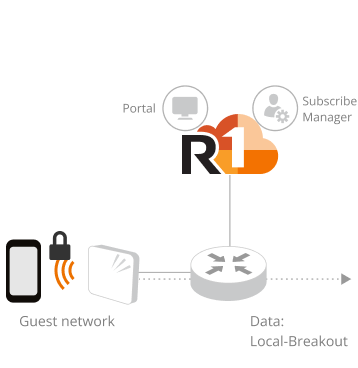
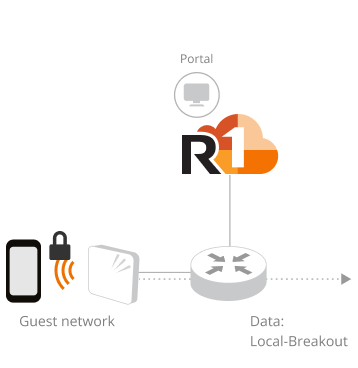
ACX-86291: Support Accounting service on CaptivePortal Click through network

Changed region(s): [[0.338, 0.1495, 0.6145, 0.3587], [0.7067, 0.2092, 1.0, 0.3587]]

diff --git a/libs/rc/shared/components/src/NetworkForm/NetworkDiagram/NetworkDiagram.tsx b/libs/rc/shared/components/src/NetworkForm/NetworkDiagram/NetworkDiagram.tsx
@@ -18,8 +18,14 @@ import AaaCertAaaDiagram               from '../assets/images/network-wizard-dia
 import AaaCertDiagram                  from '../assets/images/network-wizard-diagrams/aaa-cert.png'
 import AaaProxyDiagram                 from '../assets/images/network-wizard-diagrams/aaa-proxy.png'
 import AaaDiagram                      from '../assets/images/network-wizard-diagrams/aaa.png'
-import ClickThroughWithOweDiagram      from '../assets/images/network-wizard-diagrams/click-through-owe.png'
-import ClickThroughWithPskDiagram      from '../assets/images/network-wizard-diagrams/click-through-psk.png'
+import ClickThroughAaaProxyDiagram     from '../assets/images/network-wizard-diagrams/click-through-aaa-proxy.png'
+import ClickThroughAaaDiagram          from '../assets/images/network-wizard-diagrams/click-through-aaa.png'
+import ClickThroughOweAaaProxyDiagram  from '../assets/images/network-wizard-diagrams/click-through-owe-aaa-proxy.png'
+import ClickThroughOweAaaDiagram       from '../assets/images/network-wizard-diagrams/click-through-owe-aaa.png'
+import ClickThroughOweDiagram          from '../assets/images/network-wizard-diagrams/click-through-owe.png'
+import ClickThroughPskAaaProxyDiagram  from '../assets/images/network-wizard-diagrams/click-through-psk-aaa-proxy.png'
+import ClickThroughPskAaaDiagram       from '../assets/images/network-wizard-diagrams/click-through-psk-aaa.png'
+import ClickThroughPskDiagram          from '../assets/images/network-wizard-diagrams/click-through-psk.png'
 import ClickThroughDiagram             from '../assets/images/network-wizard-diagrams/click-through.png'
 import CloudpathWithOweDiagram         from '../assets/images/network-wizard-diagrams/cloudpath-owe.png'
 import CloudpathProxyWithOweDiagram    from '../assets/images/network-wizard-diagrams/cloudpath-proxy-owe.png'
@@ -294,8 +300,7 @@ function getCaptivePortalDiagram (props: CaptivePortalDiagramProps) {
     (wlanSecurity === WlanSecurityEnum.OWE) || (wlanSecurity === WlanSecurityEnum.OWETransition)
 
   const CaptivePortalDiagramMap: Partial<Record<GuestNetworkTypeEnum, string>> = {
-    [GuestNetworkTypeEnum.ClickThrough]: wisprWithPsk ? ClickThroughWithPskDiagram :
-      (wisprWithOwe ? ClickThroughWithOweDiagram : ClickThroughDiagram),
+    [GuestNetworkTypeEnum.ClickThrough]: getClickThroughDiagram(props),
     [GuestNetworkTypeEnum.SelfSignIn]: getSelfSignInDiagram(props),
     [GuestNetworkTypeEnum.HostApproval]: getHostApprovalDiagram(props),
     [GuestNetworkTypeEnum.GuestPass]: getGuestPassDiagram(props),
@@ -319,6 +324,24 @@ interface CaptivePortalDiagramSet {
 }
 
 const captivePortalDiagramMapping: Record<string, CaptivePortalDiagramSet> = {
+
+  // --- ClickThrough ---
+  ClickThroughOWE: {
+    Diagram: ClickThroughOweDiagram,
+    AaaProxyDiagram: ClickThroughOweAaaProxyDiagram,
+    AaaDiagram: ClickThroughOweAaaDiagram
+  },
+  ClickThroughPSK: {
+    Diagram: ClickThroughPskDiagram,
+    AaaProxyDiagram: ClickThroughPskAaaProxyDiagram,
+    AaaDiagram: ClickThroughPskAaaDiagram
+  },
+  ClickThrough: {
+    Diagram: ClickThroughDiagram,
+    AaaProxyDiagram: ClickThroughAaaProxyDiagram,
+    AaaDiagram: ClickThroughAaaDiagram
+  },
+
   // --- SelfSignIn ---
   SelfSignInOWE: {
     Diagram: SelfSignInOweDiagram,
@@ -400,6 +423,9 @@ function getCommonCaptivePortalDiagram (
 const getSelfSignInDiagram = createCaptivePortalDiagramGenerator('SelfSignIn')
 const getHostApprovalDiagram = createCaptivePortalDiagramGenerator('HostApproval')
 const getGuestPassDiagram = createCaptivePortalDiagramGenerator('GuestPass')
+const getClickThroughDiagram = createCaptivePortalDiagramGenerator('ClickThrough')
+
+
 
 export function NetworkDiagram (props: NetworkDiagramProps) {
   const { $t } = useIntl()
@@ -437,14 +463,13 @@ export function NetworkDiagram (props: NetworkDiagramProps) {
       return !(macAuthProps.enableMACAuth && !macAuthProps.isMacRegistrationList)
     }
 
-    // Hide AAA button under Captive Portal - Workflow
+    // Hide AAA button under Captive Portal
     if(props.type === NetworkTypeEnum.CAPTIVEPORTAL) {
       const cpProps = props as CaptivePortalDiagramProps
 
-      return cpProps.networkPortalType === GuestNetworkTypeEnum.Workflow ||
-        cpProps.networkPortalType === GuestNetworkTypeEnum.HostApproval ||
-        cpProps.networkPortalType === GuestNetworkTypeEnum.GuestPass ||
-        cpProps.networkPortalType === GuestNetworkTypeEnum.SelfSignIn
+      return cpProps.networkPortalType !== GuestNetworkTypeEnum.Cloudpath &&
+        cpProps.networkPortalType !== GuestNetworkTypeEnum.WISPr
+
     }
 
     if(networkType === NetworkTypeEnum.DPSK) {

diff --git a/libs/rc/shared/components/src/NetworkForm/NetworkDiagram/NetworkDiagram.spec.tsx b/libs/rc/shared/components/src/NetworkForm/NetworkDiagram/NetworkDiagram.spec.tsx
@@ -639,9 +639,11 @@ describe('NetworkDiagram', () => {
         <NetworkFormContext.Provider value={{
           editMode: false,
           cloneMode: false,
+          isRuckusAiMode: false,
           data: { type },
           setData: jest.fn()
-        }}><NetworkDiagram /></NetworkFormContext.Provider>
+        }}><NetworkDiagram />
+        </NetworkFormContext.Provider>
       </Provider>, {
         route: {
           params
@@ -653,17 +655,21 @@ describe('NetworkDiagram', () => {
     })
     it('should render Captive portal (Click Through) diagram successfully', async () => {
       const portalType = GuestNetworkTypeEnum.ClickThrough
-      const { asFragment } = render(
+      render(
         <Provider>
           <NetworkFormContext.Provider value={{
             editMode: false,
             cloneMode: false,
+            isRuckusAiMode: false,
             data: {
               type
             },
             setData: jest.fn()
           }}>
-            <NetworkDiagram networkPortalType={portalType} />
+            <NetworkDiagram
+              type={NetworkTypeEnum.CAPTIVEPORTAL}
+              networkPortalType={portalType}
+            />
           </NetworkFormContext.Provider>
         </Provider>, {
           route: {
@@ -672,22 +678,26 @@ describe('NetworkDiagram', () => {
         })
       const diagram = screen.getByRole('img') as HTMLImageElement
       expect(diagram.src).toContain('ClickThrough')
-      expect(asFragment()).toMatchSnapshot()
     })
     it('should render Captive portal (Click Through with PSK) diagram successfully', async () => {
       const portalType = GuestNetworkTypeEnum.ClickThrough
-      const { asFragment } = render(
+      render(
         <Provider>
           <NetworkFormContext.Provider value={{
             editMode: false,
             cloneMode: false,
+            isRuckusAiMode: false,
             data: {
               type
             },
             setData: jest.fn()
           }}>
-            <NetworkDiagram networkPortalType={portalType}
-              wlanSecurity={WlanSecurityEnum.WPA2Personal} />
+            <NetworkDiagram
+              type={NetworkTypeEnum.CAPTIVEPORTAL}
+              networkPortalType={portalType}
+              enableAccountingService={true}
+              networkSecurity={'PSK'}
+            />
           </NetworkFormContext.Provider>
         </Provider>, {
           route: {
@@ -695,22 +705,28 @@ describe('NetworkDiagram', () => {
           }
         })
       const diagram = screen.getByRole('img') as HTMLImageElement
-      expect(diagram.src).toContain('ClickThroughPsk')
-      expect(asFragment()).toMatchSnapshot()
+      expect(diagram.src).toContain('ClickThroughPskAaa')
     })
     it('should render Captive portal (Click Through with OWE) diagram successfully', async () => {
       const portalType = GuestNetworkTypeEnum.ClickThrough
-      const { asFragment } = render(
+      render(
         <Provider>
           <NetworkFormContext.Provider value={{
             editMode: false,
             cloneMode: false,
+            isRuckusAiMode: false,
             data: {
               type
             },
             setData: jest.fn()
           }}>
-            <NetworkDiagram networkPortalType={portalType} wlanSecurity={WlanSecurityEnum.OWE} />
+            <NetworkDiagram
+              type={NetworkTypeEnum.CAPTIVEPORTAL}
+              networkPortalType={portalType}
+              enableAccountingService={true}
+              enableAccountingProxy={true}
+              networkSecurity={'OWE'}
+            />
           </NetworkFormContext.Provider>
         </Provider>, {
           route: {
@@ -718,8 +734,7 @@ describe('NetworkDiagram', () => {
           }
         })
       const diagram = screen.getByRole('img') as HTMLImageElement
-      expect(diagram.src).toContain('ClickThroughOwe')
-      expect(asFragment()).toMatchSnapshot()
+      expect(diagram.src).toContain('ClickThroughOweAaaProxy')
     })
     it('should render Captive portal (Self Sign In) diagram successfully', async () => {
       const portalType = GuestNetworkTypeEnum.SelfSignIn

diff --git a/libs/rc/shared/components/src/NetworkForm/CaptivePortal/OnboardingForm.tsx b/libs/rc/shared/components/src/NetworkForm/CaptivePortal/OnboardingForm.tsx
@@ -3,14 +3,17 @@ import { useContext, useEffect } from 'react'
 import {
   Form
 } from 'antd'
-import { useIntl } from 'react-intl'
+import { useWatch } from 'antd/lib/form/Form'
+import { useIntl }  from 'react-intl'
 
 import { GridCol, GridRow, StepsFormLegacy }                      from '@acx-ui/components'
+import { useIsSplitOn, Features }                                 from '@acx-ui/feature-toggle'
 import { GuestNetworkTypeEnum, NetworkSaveData, NetworkTypeEnum } from '@acx-ui/rc/utils'
 
 import { NetworkDiagram }          from '../NetworkDiagram/NetworkDiagram'
 import NetworkFormContext          from '../NetworkFormContext'
 import { NetworkMoreSettingsForm } from '../NetworkMoreSettings/NetworkMoreSettingsForm'
+import { AccountingServiceInput }  from '../SharedComponent'
 
 import { DhcpCheckbox }                          from './DhcpCheckbox'
 import { RedirectUrlInput }                      from './RedirectUrlInput'
@@ -27,11 +30,19 @@ export function OnboardingForm () {
   } = useContext(NetworkFormContext)
   const intl = useIntl()
   const form = Form.useFormInstance()
+
+  const networkSecurity = useWatch('networkSecurity', form)
+  const enableAccountingProxy = useWatch('enableAccountingProxy', form)
+  const enableAccountingService = useWatch('enableAccountingService', form)
+
+  // eslint-disable-next-line max-len
+  const isSupportNetworkRadiusAccounting = useIsSplitOn(Features.WIFI_NETWORK_RADIUS_ACCOUNTING_TOGGLE)
+
   useEffect(()=>{
     if((editMode || cloneMode) && data){
       form.setFieldsValue({ ...data })
     }
-  }, [data])
+  }, [data?.id])
   return (<>
     <GridRow>
       <GridCol col={{ span: 10 }}>
@@ -42,11 +53,21 @@ export function OnboardingForm () {
         <BypassCaptiveNetworkAssistantCheckbox/>
         <WalledGardenTextArea
           enableDefaultWalledGarden={false} />
+        {isSupportNetworkRadiusAccounting &&
+          <AccountingServiceInput
+            isProxyModeConfigurable={true}
+          />
+        }
       </GridCol>
       <GridCol col={{ span: 14 }}>
-        <NetworkDiagram type={NetworkTypeEnum.CAPTIVEPORTAL}
+        <NetworkDiagram
+          type={NetworkTypeEnum.CAPTIVEPORTAL}
           networkPortalType={GuestNetworkTypeEnum.ClickThrough}
-          wlanSecurity={data?.wlan?.wlanSecurity} />
+          wlanSecurity={data?.wlan?.wlanSecurity}
+          networkSecurity={networkSecurity}
+          enableAccountingService={enableAccountingService}
+          enableAccountingProxy={enableAccountingProxy}
+        />
       </GridCol>
     </GridRow>
     {!(editMode) && !(isRuckusAiMode) && <GridRow>

diff --git a/libs/rc/shared/components/src/NetworkForm/NetworkForm.tsx b/libs/rc/shared/components/src/NetworkForm/NetworkForm.tsx
@@ -725,7 +725,8 @@ export function NetworkForm (props:{
       saveState.guestPortal?.guestNetworkType !== GuestNetworkTypeEnum.Workflow &&
       saveState.guestPortal?.guestNetworkType !== GuestNetworkTypeEnum.HostApproval &&
       saveState.guestPortal?.guestNetworkType !== GuestNetworkTypeEnum.GuestPass &&
-      saveState.guestPortal?.guestNetworkType !== GuestNetworkTypeEnum.SelfSignIn
+      saveState.guestPortal?.guestNetworkType !== GuestNetworkTypeEnum.SelfSignIn &&
+      saveState.guestPortal?.guestNetworkType !== GuestNetworkTypeEnum.ClickThrough
     ){
       delete data.authRadius
       delete data.accountingRadius

diff --git a/libs/rc/shared/components/src/NetworkForm/utils.tsx b/libs/rc/shared/components/src/NetworkForm/utils.tsx
@@ -449,7 +449,8 @@ export function shouldSaveRadiusServerSettings (saveData: NetworkSaveData): bool
         GuestNetworkTypeEnum.Workflow,
         GuestNetworkTypeEnum.GuestPass,
         GuestNetworkTypeEnum.HostApproval,
-        GuestNetworkTypeEnum.SelfSignIn
+        GuestNetworkTypeEnum.SelfSignIn,
+        GuestNetworkTypeEnum.ClickThrough
       ].includes(
         saveData.guestPortal?.guestNetworkType ?? GuestNetworkTypeEnum.ClickThrough
       )

diff --git a/libs/rc/shared/components/src/NetworkForm/utils.spec.tsx b/libs/rc/shared/components/src/NetworkForm/utils.spec.tsx
@@ -789,7 +789,7 @@ describe('Network utils test', () => {
         const saveData: NetworkSaveData = {
           type: NetworkTypeEnum.CAPTIVEPORTAL
         }
-        expect(shouldSaveRadiusServerSettings(saveData)).toBe(false)
+        expect(shouldSaveRadiusServerSettings(saveData)).toBe(true)
       })
     })
     describe('shouldSaveRadiusServerProfile', () => {
